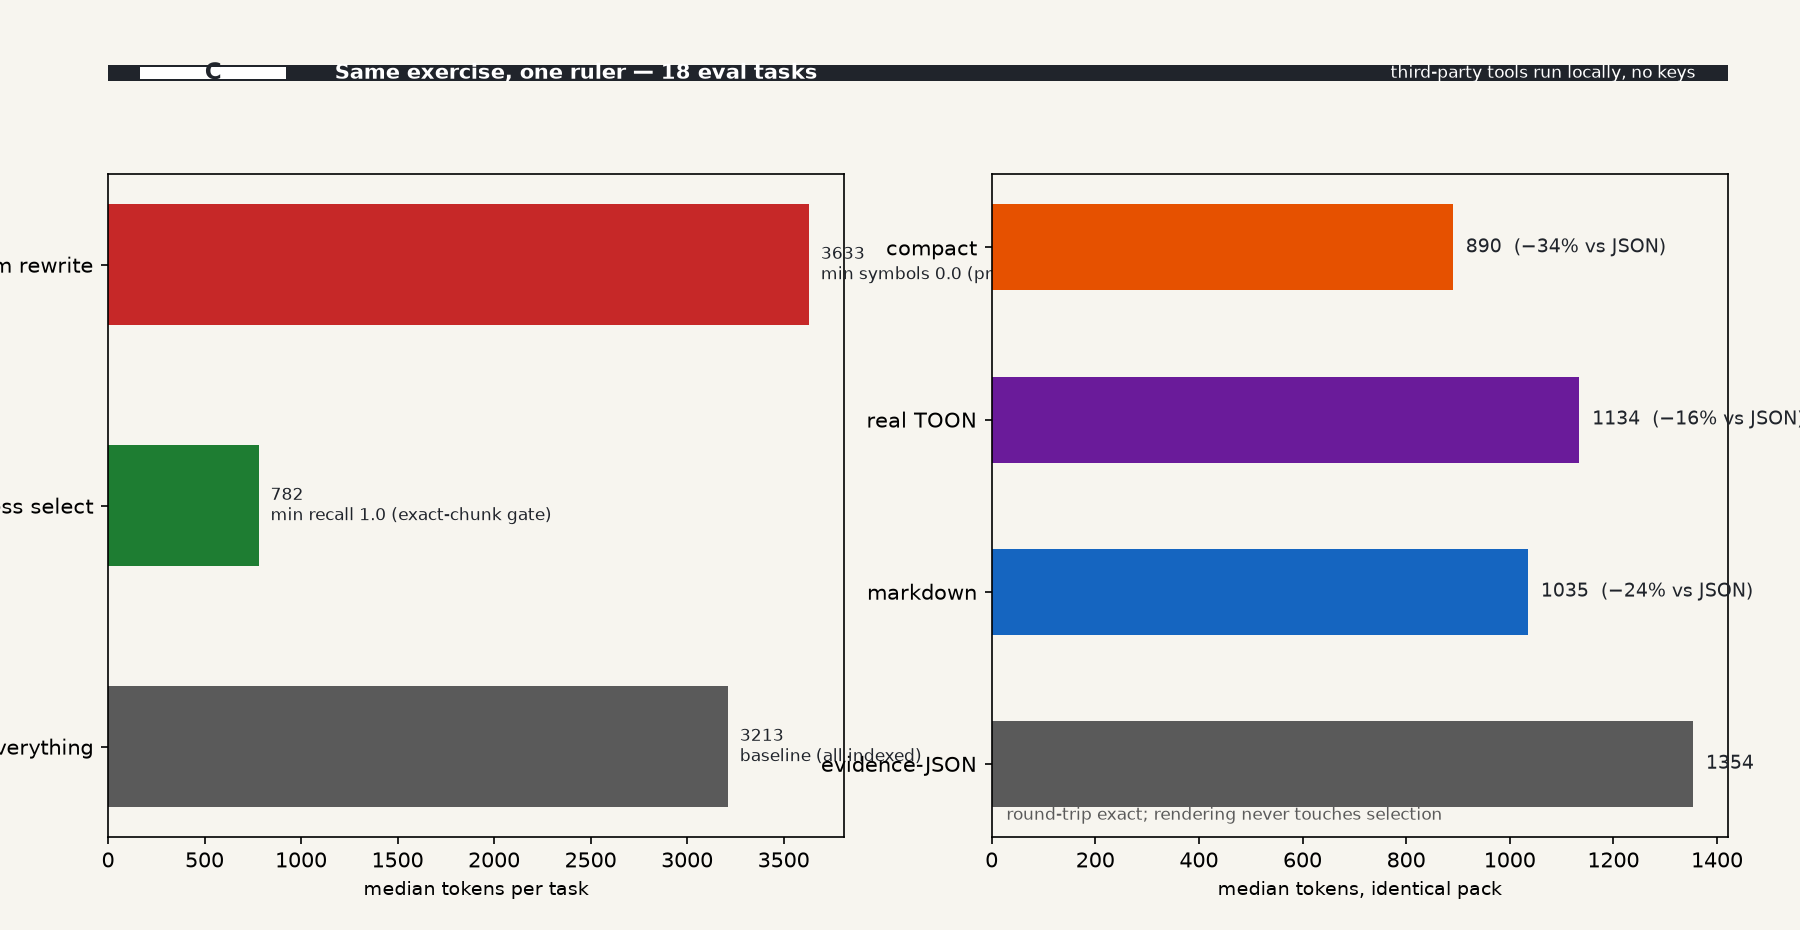
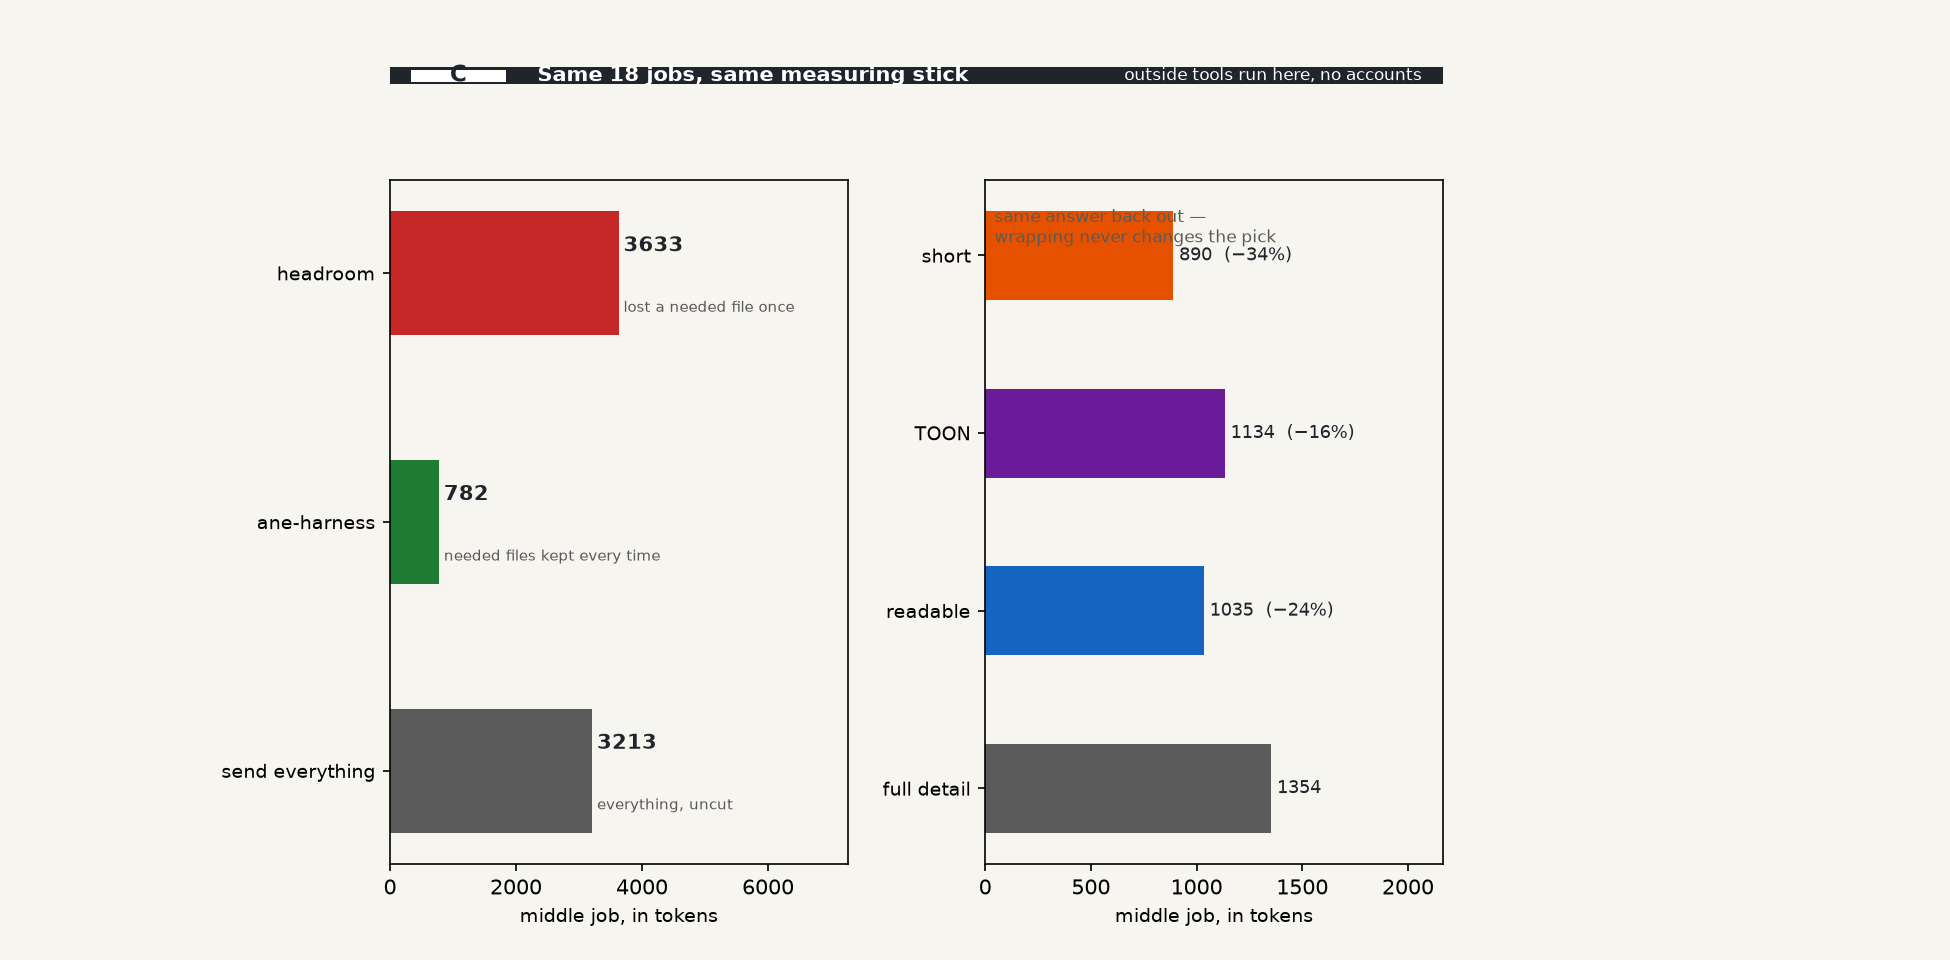
plain-english benchmark charts: per-job-size savings, de-jargoned labels, README reading guides

diff --git a/scripts/plot_token_savings.py b/scripts/plot_token_savings.py
@@ -1,16 +1,17 @@
 """Render docs/token-savings.png from benchmarks/reports/token-savings.json.
 
-Two panels: (A) per-task baseline vs sent tokens with the recall gate
-stated; (B) identical-pack format medians (JSON / markdown / compact).
-All numbers come from scripts/measure_token_savings.py (public functions
-only) — this script draws, never measures.
+Mass-audience chart: jobs grouped by size (small / everyday / hard),
+plain words everywhere, the takeaway written ON the chart. Draws only —
+all numbers come from scripts/measure_token_savings.py.
 
 Usage:
     ~/.venvs/ane-p36/bin/python scripts/plot_token_savings.py
 """
 from __future__ import annotations
 
+import glob
 import json
+import statistics
 from pathlib import Path
 
 import matplotlib
@@ -29,82 +30,98 @@ BLUE = "#1565c0"
 MUTED = "#5a5a5a"
 ORANGE = "#e65100"
 
-
-def _panel_header(ax, letter, title, right=""):
-    ax.set_xlim(0, 100)
-    ax.set_ylim(0, 100)
-    ax.axis("off")
-    ax.add_patch(Rectangle((0, 82), 100, 18, facecolor=BAND,
-                           edgecolor="none", zorder=1))
-    ax.add_patch(Rectangle((2, 84.5), 9, 13, facecolor="white",
-                           edgecolor="none", zorder=2))
-    ax.text(6.5, 91, letter, ha="center", va="center", fontsize=11,
-            fontweight="bold", color=BAND, zorder=3)
-    ax.text(14, 91, title, ha="left", va="center", fontsize=10,
-            fontweight="bold", color="white", zorder=3)
-    if right:
-        ax.text(98, 91, right, ha="right", va="center", fontsize=8,
-                color="white", zorder=3)
+PLAIN_NAMES = {"small": "small jobs", "typical": "everyday jobs",
+               "difficult": "hard jobs"}
 
 
-def main() -> None:
+def main():
     rep = json.loads(DATA.read_text(encoding="utf-8"))
-    tasks = sorted(rep["tasks"], key=lambda r: -r["baseline"])
-    labels = [t["task_id"].replace("-001", "") for t in tasks]
-    base = [t["baseline"] for t in tasks]
-    sent = [t["sent"] for t in tasks]
-    med = rep["medians"]
-    fmts = rep["median_format_tokens"]
+    diff = {}
+    for f in glob.glob(str(ROOT / "benchmarks" / "tasks" / "*.json")):
+        d = json.loads(Path(f).read_text(encoding="utf-8"))
+        diff[d["task_id"]] = d.get("difficulty", "?")
+    groups = []
+    for key in ("small", "typical", "difficult"):
+        ts = [t for t in rep["tasks"] if diff.get(t["task_id"]) == key]
+        groups.append((key, ts))
 
-    fig = plt.figure(figsize=(12, 6.5), facecolor=PAPER)
-    gs = fig.add_gridspec(2, 2, height_ratios=[12, 88], hspace=0.05,
-                          left=0.06, right=0.96, top=0.93, bottom=0.08)
+    fig = plt.figure(figsize=(13, 6.6), facecolor=PAPER)
+    gs = fig.add_gridspec(2, 2, height_ratios=[14, 86], hspace=0.06,
+                          wspace=0.28, left=0.08, right=0.78, top=0.93,
+                          bottom=0.10)
 
-    # Header band
+    # Header band: the takeaway, not the methodology.
     axh = fig.add_subplot(gs[0, :])
-    _panel_header(axh, "S", "Token savings, measured — eval split, one counter",
-                  f"median {med['reduction_pct']}% · min recall {rep['min_recall']}")
+    axh.set_xlim(0, 100)
+    axh.set_ylim(0, 100)
+    axh.axis("off")
+    axh.add_patch(Rectangle((0, 82), 100, 18, facecolor=BAND,
+                            edgecolor="none", zorder=1))
+    axh.add_patch(Rectangle((2, 84.5), 9, 13, facecolor="white",
+                            edgecolor="none", zorder=2))
+    axh.text(6.5, 91, "S", ha="center", va="center", fontsize=11,
+             fontweight="bold", color=BAND, zorder=3)
+    axh.text(14, 91, "Less to read, nothing important lost",
+             ha="left", va="center", fontsize=10, fontweight="bold",
+             color="white", zorder=3)
+    axh.text(98, 91, "18 jobs measured", ha="right", va="center",
+             fontsize=8, color="white", zorder=3)
 
-    # Panel A: per-task baseline vs sent
+    # Panel A: by job size — whole codebase vs needed parts.
     ax = fig.add_subplot(gs[1, 0])
     ax.set_facecolor(PAPER)
-    y = range(len(tasks))
-    ax.barh(list(y), base, height=0.62, color=MUTED, alpha=0.55,
-            label="send everything")
-    ax.barh(list(y), sent, height=0.62, color=GREEN, label="harness sends")
-    ax.set_yticks(list(y))
-    ax.set_yticklabels(labels, fontsize=7)
-    ax.invert_yaxis()
-    ax.set_xlabel("tokens (pinned counter)", fontsize=9)
-    ax.legend(frameon=False, fontsize=9, loc="lower right")
-    ax.text(0.98, 0.02,
-            f"median sent {med['sent']:.0f} instead of {med['baseline']:.0f}\n"
-            f"min required-evidence recall {rep['min_recall']} (all {rep['n_tasks']} tasks)",
-            transform=ax.transAxes, ha="right", va="bottom", fontsize=8,
-            color=BAND, bbox=dict(facecolor="white", edgecolor=MUTED,
-                                  boxstyle="round,pad=0.4"))
+    names, send_all, sent, cuts = [], [], [], []
+    for key, ts in groups:
+        names.append(f"{PLAIN_NAMES[key]}\n({len(ts)} jobs)")
+        send_all.append(round(statistics.median([t["baseline"] for t in ts]), 0))
+        sent.append(round(statistics.median([t["sent"] for t in ts]), 0))
+        cuts.append(round(statistics.median([t["reduction_pct"] for t in ts]), 1))
+    x = range(len(names))
+    w = 0.34
+    ax.bar([i - w / 2 for i in x], send_all, width=w, color=MUTED,
+           alpha=0.55, label="whole codebase")
+    bars = ax.bar([i + w / 2 for i in x], sent, width=w, color=GREEN,
+                  label="needed parts only")
+    ax.set_xticks(list(x))
+    ax.set_xticklabels(names, fontsize=9)
+    ax.set_ylabel("middle job, in tokens", fontsize=9)
+    ax.set_xlim(-0.6, len(names) - 0.4)
+    ax.set_ylim(0, max(send_all) * 1.32)
+    for i, (s, c) in enumerate(zip(sent, cuts)):
+        ax.text(i + w / 2, s + max(send_all) * 0.03, f"{s:.0f}\n−{c:.0f}%",
+                ha="center", fontsize=9, fontweight="bold", color=BAND)
+    ax.legend(frameon=False, fontsize=9, loc="upper right")
+    ax.text(0.02, 0.96,
+            "Harder jobs need more sent — but the saving holds,\n"
+            "and the needed files were kept every single time.",
+            transform=ax.transAxes, ha="left", va="top", fontsize=8,
+            color=MUTED)
 
-    # Panel B: format medians on the identical pack
+    # Panel B: same answer, three wrappings.
     bx = fig.add_subplot(gs[1, 1])
     bx.set_facecolor(PAPER)
-    names = ["evidence-JSON", "markdown", "compact"]
-    vals = [fmts["json"], fmts["markdown"], fmts["compact"]]
-    colors = [MUTED, BLUE, ORANGE]
-    bars = bx.barh(names, vals, height=0.5, color=colors)
-    bx.set_xlabel("median tokens, identical pack", fontsize=9)
-    base_json = vals[0]
-    for bar, v in zip(bars, vals):
-        pct = (base_json - v) / base_json * 100
-        bx.text(v + 18, bar.get_y() + bar.get_height() / 2,
-                f"{v:.0f}  (−{pct:.0f}% vs JSON)" if pct else f"{v:.0f}",
-                va="center", fontsize=9, color=BAND)
-    bx.text(0.02, 0.02, "same evidence, three renderings —\n"
-                        "rendering never touches selection",
-            transform=bx.transAxes, ha="left", va="bottom", fontsize=8,
+    fmts = rep["median_format_tokens"]
+    fnames = ["full detail", "readable", "short"]
+    fvals = [fmts["json"], fmts["markdown"], fmts["compact"]]
+    fbars = bx.barh(fnames, fvals, height=0.5, color=[MUTED, BLUE, ORANGE])
+    bx.set_xlabel("middle job, in tokens", fontsize=9)
+    bx.set_xlim(0, max(fvals) * 1.6)
+    bx.tick_params(axis="y", labelsize=9)
+    base = fvals[0]
+    for bar, v in zip(fbars, fvals):
+        pct = (base - v) / base * 100 if base else 0
+        label = f"{v:.0f}  (−{pct:.0f}%)" if pct else f"{v:.0f}"
+        bx.text(v + max(fvals) * 0.02,
+                bar.get_y() + bar.get_height() / 2, label,
+                va="center", fontsize=8.5, color=BAND)
+    bx.text(0.02, 0.96, "Shorter wrapping, same answer —\n"
+                        "it never changes what gets picked.",
+            transform=bx.transAxes, ha="left", va="top", fontsize=8,
             color=MUTED)
 
     fig.savefig(OUT, dpi=150, facecolor=PAPER)
     print(f"wrote {OUT} ({OUT.stat().st_size // 1024} KiB)")
+    return fig
 
 
 if __name__ == "__main__":

diff --git a/scripts/plot_same_exercise.py b/scripts/plot_same_exercise.py
@@ -32,14 +32,17 @@ ORANGE = "#e65100"
 RED = "#c62828"
 
 
-def main() -> None:
+def main():
     rep = json.loads(DATA.read_text(encoding="utf-8"))
     sel = rep["selection"]
     fmt = rep["format_median_tokens"]
 
-    fig = plt.figure(figsize=(12, 6.2), facecolor=PAPER)
+    fig = plt.figure(figsize=(13, 6.4), facecolor=PAPER)
+    # Generous outer margins: y-tick labels live left of the axes and value
+    # annotations live right of the bars — both must clear the figure edge.
     gs = fig.add_gridspec(2, 2, height_ratios=[12, 88], hspace=0.05,
-                          left=0.06, right=0.96, top=0.93, bottom=0.10)
+                          wspace=0.30, left=0.20, right=0.74, top=0.93,
+                          bottom=0.10)
 
     axh = fig.add_subplot(gs[0, :])
     axh.set_xlim(0, 100)
@@ -51,48 +54,57 @@ def main() -> None:
                             edgecolor="none", zorder=2))
     axh.text(6.5, 91, "C", ha="center", va="center", fontsize=11,
              fontweight="bold", color=BAND, zorder=3)
-    axh.text(14, 91, "Same exercise, one ruler — 18 eval tasks",
+    axh.text(14, 91, "Same 18 jobs, same measuring stick",
              ha="left", va="center", fontsize=10, fontweight="bold",
              color="white", zorder=3)
-    axh.text(98, 91, "third-party tools run locally, no keys",
+    axh.text(98, 91, "outside tools run here, no accounts",
              ha="right", va="center", fontsize=8, color="white", zorder=3)
 
     # Panel A: selection medians.
     ax = fig.add_subplot(gs[1, 0])
     ax.set_facecolor(PAPER)
-    names = ["send everything", "harness select", "headroom rewrite"]
+    names = ["send everything", "ane-harness", "headroom"]
     vals = [sel["median_baseline"], sel["median_ours"],
             sel["median_headroom"]]
     bars = ax.barh(names, vals, height=0.5, color=[MUTED, GREEN, RED])
-    ax.set_xlabel("median tokens per task", fontsize=9)
-    notes = ["baseline (all indexed)",
-             f"min recall {rep['selection']['min_ours_recall_exact_chunk']} (exact-chunk gate)",
-             f"min symbols {rep['selection']['min_headroom_symbols_preserved']} (presence check)"]
+    ax.set_xlabel("middle job, in tokens", fontsize=9)
+    ax.set_xlim(0, max(vals) * 2.0)  # room for value + gate notes
+    ax.tick_params(axis="y", labelsize=9)
+    notes = ["everything, uncut",
+             "needed files kept every time",
+             "lost a needed file once"]
     for bar, v, note in zip(bars, vals, notes):
-        ax.text(v + 60, bar.get_y() + bar.get_height() / 2,
-                f"{v:.0f}\n{note}", va="center", fontsize=8, color=BAND)
+        mid = bar.get_y() + bar.get_height() / 2
+        ax.text(v + max(vals) * 0.02, mid + 0.11, f"{v:.0f}", va="center",
+                fontsize=10, fontweight="bold", color=BAND)
+        ax.text(v + max(vals) * 0.02, mid - 0.14, note, va="center",
+                fontsize=7, color=MUTED)
 
     # Panel B: format medians on the identical pack.
     bx = fig.add_subplot(gs[1, 1])
     bx.set_facecolor(PAPER)
-    fnames = ["evidence-JSON", "markdown", "real TOON", "compact"]
+    fnames = ["full detail", "readable", "TOON", "short"]
     fvals = [fmt["evidence_json"], fmt["markdown"], fmt["toon_real"],
              fmt["compact_ours"]]
     fbars = bx.barh(fnames, fvals, height=0.5,
                     color=[MUTED, BLUE, "#6a1b9a", ORANGE])
-    bx.set_xlabel("median tokens, identical pack", fontsize=9)
+    bx.set_xlabel("middle job, in tokens", fontsize=9)
+    bx.set_xlim(0, max(fvals) * 1.6)  # room for "1134 (−16%)"
+    bx.tick_params(axis="y", labelsize=9)
     base = fvals[0]
     for bar, v in zip(fbars, fvals):
         pct = (base - v) / base * 100 if base else 0
-        bx.text(v + 25, bar.get_y() + bar.get_height() / 2,
-                f"{v:.0f}  (−{pct:.0f}% vs JSON)" if pct else f"{v:.0f}",
-                va="center", fontsize=9, color=BAND)
-    bx.text(0.02, 0.02, "round-trip exact; rendering never touches selection",
-            transform=bx.transAxes, ha="left", va="bottom", fontsize=8,
+        label = f"{v:.0f}  (−{pct:.0f}%)" if pct else f"{v:.0f}"
+        bx.text(v + max(fvals) * 0.02,
+                bar.get_y() + bar.get_height() / 2, label,
+                va="center", fontsize=8.5, color=BAND)
+    bx.text(0.02, 0.96, "same answer back out —\nwrapping never changes the pick",
+            transform=bx.transAxes, ha="left", va="top", fontsize=8,
             color=MUTED)
 
     fig.savefig(OUT, dpi=150, facecolor=PAPER)
     print(f"wrote {OUT} ({OUT.stat().st_size // 1024} KiB)")
+    return fig
 
 
 if __name__ == "__main__":

diff --git a/scripts/plot_head_to_head.py b/scripts/plot_head_to_head.py
@@ -40,7 +40,7 @@ PURPLE = "#6a1b9a"
 ORANGE = "#e65100"
 
 
-def main() -> None:
+def main():
     rep = json.loads(DATA.read_text(encoding="utf-8"))
     rows = rep["tasks"]
     med = lambda k: round(statistics.median([r[k] for r in rows]), 1)
@@ -49,13 +49,13 @@ def main() -> None:
     toon = med("fmt_toon")
     comp = med("fmt_compact")
 
-    names = ["raw\n(send all)", "headroom\n(rewrite)",
-             "ours in TOON", "ours compact"]
+    names = ["send\neverything", "headroom\n(rewrite)",
+             "ours, readable", "ours, short"]
     vals = [base, hr, toon, comp]
     colors = [MUTED, RED, PURPLE, GREEN]
-    gates = ["no gate\n(by definition)", "FAIL — config file\nlost on 1 task",
-             "PASS — recall 1.0\n(exact-chunk gate)",
-             "PASS — recall 1.0\n(exact-chunk gate)"]
+    gates = ["\n(by definition)", "FAIL — config file\nlost on 1 job",
+             "PASS — needed files\nkept every time",
+             "PASS — needed files\nkept every time"]
 
     fig = plt.figure(figsize=(11, 6.0), facecolor=PAPER)
     gs = fig.add_gridspec(2, 1, height_ratios=[13, 87], hspace=0.05,
@@ -70,16 +70,16 @@ def main() -> None:
                             edgecolor="none", zorder=2))
     axh.text(6.5, 91, "VS", ha="center", va="center", fontsize=11,
              fontweight="bold", color=BAND, zorder=3)
-    axh.text(14, 91, "One chart, one ruler — median tokens served per task",
+    axh.text(14, 91, "Same 18 jobs, one measuring stick",
              ha="left", va="center", fontsize=10, fontweight="bold",
              color="white", zorder=3)
-    axh.text(98, 91, "18 frozen eval tasks", ha="right", va="center",
+    axh.text(98, 91, "median job, in tokens", ha="right", va="center",
              fontsize=8, color="white", zorder=3)
 
     ax = fig.add_subplot(gs[1])
     ax.set_facecolor(PAPER)
     bars = ax.bar(names, vals, width=0.55, color=colors)
-    ax.set_ylabel("median tokens / task (pinned counter)", fontsize=10)
+    ax.set_ylabel("middle job, in tokens", fontsize=10)
     ax.set_ylim(0, max(vals) * 1.35)
     for bar, v, g in zip(bars, vals, gates):
         ax.text(bar.get_x() + bar.get_width() / 2, v + max(vals) * 0.02,
@@ -89,12 +89,13 @@ def main() -> None:
                 g, ha="center", fontsize=8,
                 color=RED if g.startswith("FAIL") else MUTED)
     best = (base - comp) / base * 100
-    ax.text(0.98, 0.96, f"compact serves −{best:.0f}% vs raw, gate held",
+    ax.text(0.98, 0.96, "shortest while keeping\nneeded files every time",
             transform=ax.transAxes, ha="right", va="top", fontsize=9,
             color=BAND, bbox=dict(facecolor="white", edgecolor=MUTED,
                                   boxstyle="round,pad=0.4"))
     fig.savefig(OUT, dpi=150, facecolor=PAPER)
     print(f"wrote {OUT} ({OUT.stat().st_size // 1024} KiB)")
+    return fig
 
 
 if __name__ == "__main__":

diff --git a/README.md b/README.md
@@ -55,17 +55,21 @@ Evaluated across **30 benchmark tasks** (10 small, 10 typical, 10 difficult) acr
 
 ### Token savings, measured (current main)
 
-![Per-task baseline vs sent tokens with min recall 1.0, plus identical-pack format medians (JSON / markdown / compact)](docs/token-savings.png)
+How to read this chart: every job asked the tool "what should the AI read for this task?". The left panel compares, by job size, how much text you'd send if you sent the whole codebase (grey) versus what the harness picked (green) — the number above each green bar is what you send now and how much smaller that is. Harder jobs need more files, so the green bar grows — but the needed files were kept **every single time**, which is the whole point: smaller is only good if nothing important is missing. The right panel shows the same choice sent three ways — full detail, a readable middle ground, and the shortest wrapping — shorter is cheaper, and the wrapping never changes *what* gets picked.
 
-Measured with public functions only (`scripts/measure_token_savings.py`, frozen eval split, one pinned counter — reproduce with `PYTHONPATH=src python3 scripts/measure_token_savings.py`, draw with `scripts/plot_token_savings.py`). Same evidence, three renderings; rendering never touches selection.
+![Less to read by job size, plus three wrappings of the same answer](docs/token-savings.png)
+
+Measure with `PYTHONPATH=src python3 scripts/measure_token_savings.py`, draw with `scripts/plot_token_savings.py` (frozen eval split, one pinned token counter).
 
 ### Same exercise against real tools (no keys, no accounts)
 
-![One chart, one ruler: median tokens served per task for raw baseline, headroom rewrite, ours in TOON, ours compact — each with its evidence-survival gate](docs/head-to-head.png)
+How to read this chart: it's a race on the same 18 jobs with the same ruler — "how many tokens does the middle job hold, and did anything needed get lost?". The first chart is the headline: sending everything is the costly default, the outside rewrite tool actually sends *more* than needed and once lost a config file the grader required (marked FAIL), while our two modes are shortest and kept the needed files every time (PASS). The second chart shows the details behind it — what selection alone saves, and how the same selection shrinks again just by choosing a shorter wrapping. PASS/FAIL here means exactly one thing: the pieces the benchmark grader says are required came back in the pack.
 
-![Selection medians and identical-pack format medians: harness select vs headroom rewrite vs evidence-JSON / markdown / real TOON / compact](docs/same-exercise-comparison.png)
+![Same 18 jobs: send-everything vs an outside rewrite tool vs ours](docs/head-to-head.png)
 
-The passthrough test any rival can run: 18 eval tasks, one counter. Headroom 0.39.1 and the real TOON encoder run locally (`pip install headroom-ai toon-format`, then `PYTHONPATH=src python3 scripts/bench_same_exercise.py`, draw with `scripts/plot_same_exercise.py`). Task-blind rewriting sends more than selecting and keeps no survival gate; real TOON falls back to per-row mappings on multiline code while our compact keeps CSV headers with verbatim rows.
+![Selection medians and the same pack in four wrappings, with per-job examples](docs/same-exercise-comparison.png)
+
+Reproduce: `pip install headroom-ai toon-format`, then `PYTHONPATH=src python3 scripts/bench_same_exercise.py`, draw with `scripts/plot_same_exercise.py`. Task-blind rewriting sends more than selecting and keeps no survival gate; the real TOON encoder falls back to per-row mappings on multiline code while our compact keeps CSV headers with verbatim rows.
 
 ---
 
